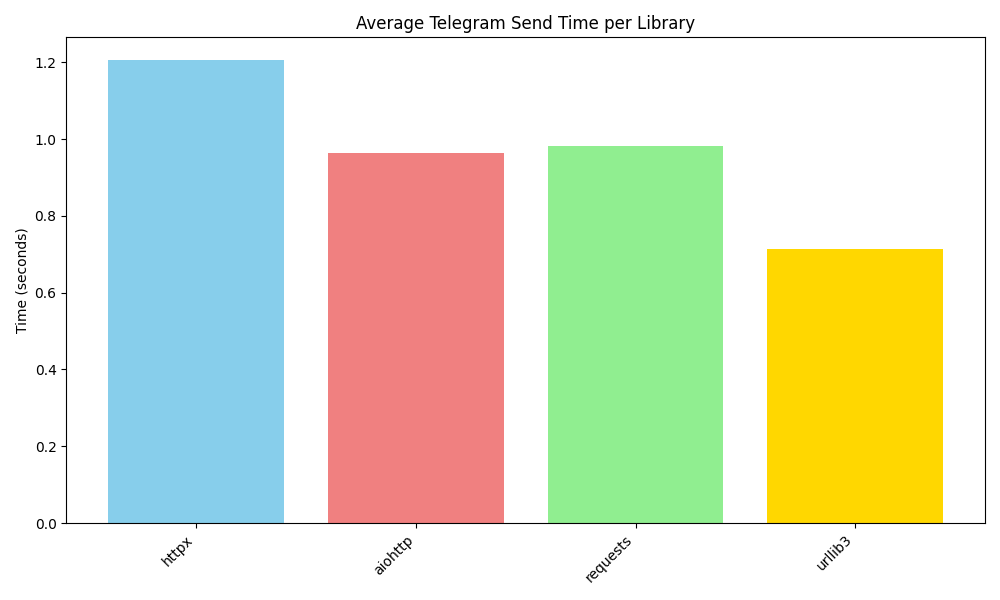
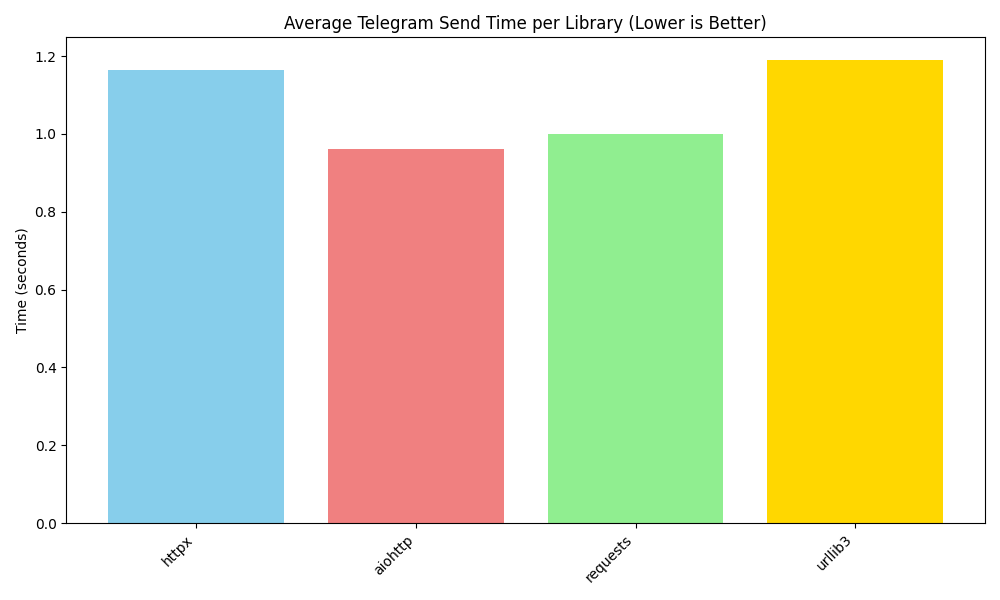
phase2

diff --git a/reporting/md_reporter.py b/reporting/md_reporter.py
@@ -45,8 +45,8 @@ def generate_report(report_data, output_dir, filename):
 
     # --- Detailed Results per Library ---
     md_content.append("## Detailed Results per Library")
-    md_content.append("| Library | Version | Avg TG Send (s) | Min TG Send (s) | Max TG Send (s) | Total Runs | Success Runs | Failed Runs | Success Rate (%) | CPU (%) | Memory (MB) |")
-    md_content.append("|---------|---------|-----------------|-----------------|-----------------|------------|--------------|-------------|------------------|---------|-------------|")
+    md_content.append("| Library | Version | Avg TG Send (s) (Lower is Better) | Min TG Send (s) (Lower is Better) | Max TG Send (s) (Lower is Better) | Total Runs | Success Runs (Higher is Better) | Failed Runs (Lower is Better) | Success Rate (%) (Higher is Better) | CPU (%) (Lower is Better) | Memory (MB) (Lower is Better) |")
+    md_content.append("|---------|---------|-----------------------------------|-----------------------------------|-----------------------------------|------------|-------------------------------|-----------------------------|-----------------------------------|---------------------------|-----------------------------|")
     for lib_name, lib_data in libraries.items():
         workflow_metrics = lib_data.get("workflow", {})
         version = lib_data.get("version", "N/A")
@@ -69,7 +69,7 @@ def generate_report(report_data, output_dir, filename):
     rankings = summary_overall.get("rankings", {})
 
     if rankings.get("avg_telegram_send_time"):
-        md_content.append("\n### Fastest Average Telegram Send Time")
+        md_content.append("\n### Fastest Average Telegram Send Time (Lower is Better)")
         if plot_filenames.get('avg_telegram_send_time'):
              md_content.append(f"\n![Avg TG Send Time Plot]({plot_filenames['avg_telegram_send_time']})\n")
         md_content.append("| Rank | Library | Avg Time (s) |")
@@ -79,7 +79,7 @@ def generate_report(report_data, output_dir, filename):
         md_content.append("")
             
     if rankings.get("success_rate"):
-        md_content.append("\n### Highest Success Rate")
+        md_content.append("\n### Highest Success Rate (Higher is Better)")
         if plot_filenames.get('success_failure_rate'):
              md_content.append(f"\n![Success/Failure Rate Plot]({plot_filenames['success_failure_rate']})\n")
         md_content.append("| Rank | Library | Success Rate (%) |")
@@ -89,9 +89,9 @@ def generate_report(report_data, output_dir, filename):
         md_content.append("")
 
     # --- Resource Usage Rankings (Placeholders for now) ---
-    md_content.append("\n## Resource Usage Rankings (Lower is Better - Placeholders)")
+    md_content.append("\n## Resource Usage Rankings (Lower is Better)")
     if rankings.get("memory_usage") or plot_filenames.get('memory_increase'): # Show section if plot exists or data structure exists
-        md_content.append("\n### Lowest Memory Usage (Workflow)")
+        md_content.append("\n### Lowest Memory Usage (Workflow) (Lower is Better)")
         if plot_filenames.get('memory_increase'):
              md_content.append(f"\n![Memory Usage Plot]({plot_filenames['memory_increase']})\n")
         if rankings.get("memory_usage"):
@@ -102,7 +102,7 @@ def generate_report(report_data, output_dir, filename):
         md_content.append("")
 
     if rankings.get("cpu_usage") or plot_filenames.get('cpu_usage'):
-        md_content.append("\n### Lowest CPU Usage (Workflow)")
+        md_content.append("\n### Lowest CPU Usage (Workflow) (Lower is Better)")
         if plot_filenames.get('cpu_usage'):
              md_content.append(f"\n![CPU Usage Plot]({plot_filenames['cpu_usage']})\n")
         if rankings.get("cpu_usage"):

diff --git a/reporting/plot_generator.py b/reporting/plot_generator.py
@@ -32,7 +32,7 @@ def generate_plots(report_data, output_dir):
         plt.figure(figsize=(10, 6))
         plt.bar(library_names, avg_tg_send_times_s, color=['skyblue', 'lightcoral', 'lightgreen', 'gold', 'lightsalmon'])
         plt.ylabel('Time (seconds)')
-        plt.title('Average Telegram Send Time per Library')
+        plt.title('Average Telegram Send Time per Library (Lower is Better)')
         plt.xticks(rotation=45, ha="right")
         plt.tight_layout()
         path = os.path.join(output_dir, 'plot_avg_telegram_send_time.png')
@@ -65,7 +65,7 @@ def generate_plots(report_data, output_dir):
         p1 = plt.bar(ind, successful_runs, width, color='lightgreen', label='Successful')
         p2 = plt.bar(ind, failed_runs, width, bottom=successful_runs, color='lightcoral', label='Failed')
         plt.ylabel('Number of Runs')
-        plt.title(f'Workflow Run Success/Failure Rate (Total {max_total_runs} runs per library)')
+        plt.title(f'Workflow Run Success/Failure Rate (Total {max_total_runs} runs per library - Higher Successful is Better)')
         plt.xticks(ind, library_names, rotation=45, ha="right")
         plt.yticks(np.arange(0, max_total_runs + 1, max(1, max_total_runs // 10)))
         plt.legend()
@@ -88,7 +88,7 @@ def generate_plots(report_data, output_dir):
         plt.figure(figsize=(10, 6))
         plt.bar(library_names, memory_increases_mb, color=['skyblue', 'lightcoral', 'lightgreen', 'gold', 'lightsalmon'])
         plt.ylabel('Memory Increase (MB)')
-        plt.title('Memory Increase During Workflow per Library')
+        plt.title('Memory Increase During Workflow per Library (Lower is Better)')
         plt.xticks(rotation=45, ha="right")
         plt.tight_layout()
         path = os.path.join(output_dir, 'plot_memory_increase.png')
@@ -109,7 +109,7 @@ def generate_plots(report_data, output_dir):
         plt.figure(figsize=(10, 6))
         plt.bar(library_names, cpu_usages_percent, color=['skyblue', 'lightcoral', 'lightgreen', 'gold', 'lightsalmon'])
         plt.ylabel('CPU Usage (%)')
-        plt.title('CPU Usage During Workflow per Library')
+        plt.title('CPU Usage During Workflow per Library (Lower is Better)')
         plt.xticks(rotation=45, ha="right")
         plt.tight_layout()
         path = os.path.join(output_dir, 'plot_cpu_usage.png')

diff --git a/config.py b/config.py
@@ -14,7 +14,7 @@ if TELEGRAM_BOT_TOKEN == 'YOUR_TELEGRAM_BOT_TOKEN' or TELEGRAM_CHAT_ID == 'YOUR_
 TELEGRAM_API_URL_TEMPLATE = "https://api.telegram.org/bot{token}/sendMessage"
 
 # --- Benchmark Parameters ---
-NUM_MESSAGES = 2  # Number of messages to send for each library
+NUM_MESSAGES = 5  # Number of messages to send for each library
 TEST_MESSAGE_PAYLOAD = "Hello from the Telegram Benchmark Script!"
 
 # --- Report Configuration ---

diff --git a/reports/benchmark_telegram_libs_report.md b/reports/benchmark_telegram_libs_report.md
@@ -1,7 +1,7 @@
 # Telegram HTTP Library Benchmark
 ## Overview
-- **Date:** 2025-05-08 14:28:06
-- **Number of Messages per Library:** 2
+- **Date:** 2025-05-08 14:34:20
+- **Number of Messages per Library:** 5
 - **Libraries Tested:** httpx, aiohttp, requests, urllib3
 - **Python Version:** 3.13.2
 - **Platform:** Windows-11-10.0.26100-SP0
@@ -9,38 +9,38 @@
 ---
 
 ## Summary of Best Performers
-- **Fastest Avg. Telegram Send Time:** urllib3 (0.7129s)
+- **Fastest Avg. Telegram Send Time:** aiohttp (0.9607s)
 - **Highest Success Rate:** httpx (100.00%)
-- **Lowest Memory Usage (Workflow):** requests (0.13 MB)
-- **Lowest CPU Usage (Workflow):** aiohttp (0.00%)
+- **Lowest Memory Usage (Workflow):** requests (0.08 MB)
+- **Lowest CPU Usage (Workflow):** requests (0.00%)
 
 ---
 
 ## Detailed Results per Library
-| Library | Version | Avg TG Send (s) | Min TG Send (s) | Max TG Send (s) | Total Runs | Success Runs | Failed Runs | Success Rate (%) | CPU (%) | Memory (MB) |
-|---------|---------|-----------------|-----------------|-----------------|------------|--------------|-------------|------------------|---------|-------------|
-| httpx | 0.27.0 | 1.2047 | 1.1623 | 1.2472 | 2 | 2 | 0 | 100.00 | 13.73 | 4.20 |
-| aiohttp | 3.9.5 | 0.9639 | 0.9637 | 0.9641 | 2 | 2 | 0 | 100.00 | 0.00 | 1.37 |
-| requests | 2.32.3 | 0.9818 | 0.9592 | 1.0043 | 2 | 2 | 0 | 100.00 | 0.00 | 0.13 |
-| urllib3 | 2.2.2 | 0.7129 | 0.4481 | 0.9777 | 2 | 2 | 0 | 100.00 | 0.96 | 0.27 |
+| Library | Version | Avg TG Send (s) (Lower is Better) | Min TG Send (s) (Lower is Better) | Max TG Send (s) (Lower is Better) | Total Runs | Success Runs (Higher is Better) | Failed Runs (Lower is Better) | Success Rate (%) (Higher is Better) | CPU (%) (Lower is Better) | Memory (MB) (Lower is Better) |
+|---------|---------|-----------------------------------|-----------------------------------|-----------------------------------|------------|-------------------------------|-----------------------------|-----------------------------------|---------------------------|-----------------------------|
+| httpx | 0.27.0 | 1.1635 | 1.1350 | 1.2428 | 5 | 5 | 0 | 100.00 | 14.28 | 7.16 |
+| aiohttp | 3.9.5 | 0.9607 | 0.9511 | 0.9699 | 5 | 5 | 0 | 100.00 | 0.29 | 1.23 |
+| requests | 2.32.3 | 1.0004 | 0.9687 | 1.0379 | 5 | 5 | 0 | 100.00 | 0.00 | 0.08 |
+| urllib3 | 2.2.2 | 1.1890 | 0.4366 | 3.6117 | 5 | 5 | 0 | 100.00 | 0.48 | 0.33 |
 
 ---
 
 ## Performance Rankings & Visualizations
 
-### Fastest Average Telegram Send Time
+### Fastest Average Telegram Send Time (Lower is Better)
 
 ![Avg TG Send Time Plot](plot_avg_telegram_send_time.png)
 
 | Rank | Library | Avg Time (s) |
 |------|---------|--------------|
-| 1 | urllib3 | 0.7129 |
-| 2 | aiohttp | 0.9639 |
-| 3 | requests | 0.9818 |
-| 4 | httpx | 1.2047 |
+| 1 | aiohttp | 0.9607 |
+| 2 | requests | 1.0004 |
+| 3 | httpx | 1.1635 |
+| 4 | urllib3 | 1.1890 |
 
 
-### Highest Success Rate
+### Highest Success Rate (Higher is Better)
 
 ![Success/Failure Rate Plot](plot_success_failure_rate.png)
 
@@ -52,30 +52,30 @@
 | 4 | urllib3 | 100.00 |
 
 
-## Resource Usage Rankings (Lower is Better - Placeholders)
+## Resource Usage Rankings (Lower is Better)
 
-### Lowest Memory Usage (Workflow)
+### Lowest Memory Usage (Workflow) (Lower is Better)
 
 ![Memory Usage Plot](plot_memory_increase.png)
 
 | Rank | Library | Memory Increase (MB) |
 |------|---------|----------------------|
-| 1 | requests | 0.13 |
-| 2 | urllib3 | 0.27 |
-| 3 | aiohttp | 1.37 |
-| 4 | httpx | 4.20 |
+| 1 | requests | 0.08 |
+| 2 | urllib3 | 0.33 |
+| 3 | aiohttp | 1.23 |
+| 4 | httpx | 7.16 |
 
 
-### Lowest CPU Usage (Workflow)
+### Lowest CPU Usage (Workflow) (Lower is Better)
 
 ![CPU Usage Plot](plot_cpu_usage.png)
 
 | Rank | Library | CPU Usage (%) |
 |------|---------|---------------|
-| 1 | aiohttp | 0.00 |
-| 2 | requests | 0.00 |
-| 3 | urllib3 | 0.96 |
-| 4 | httpx | 13.73 |
+| 1 | requests | 0.00 |
+| 2 | aiohttp | 0.29 |
+| 3 | urllib3 | 0.48 |
+| 4 | httpx | 14.28 |
 
 
 ---
